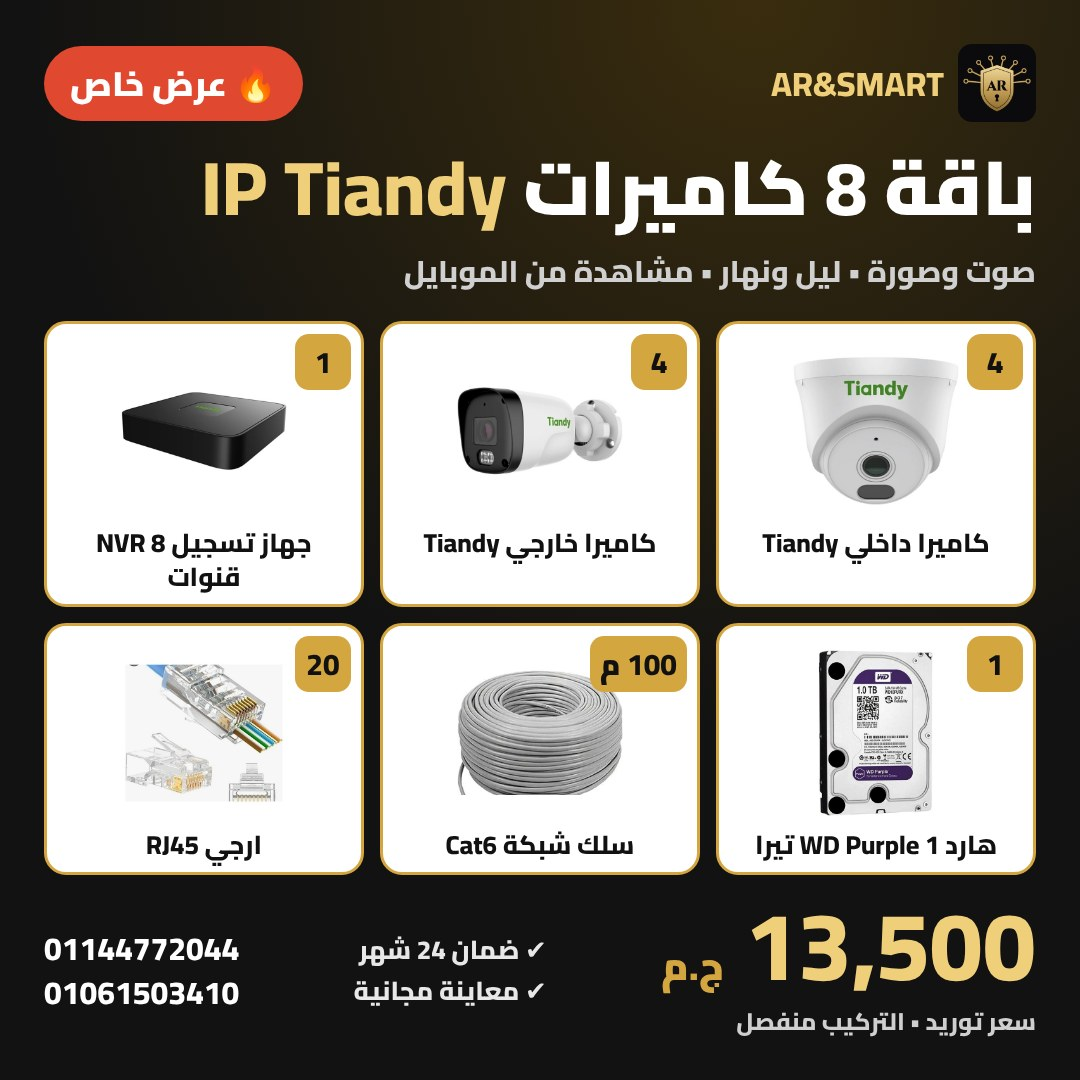
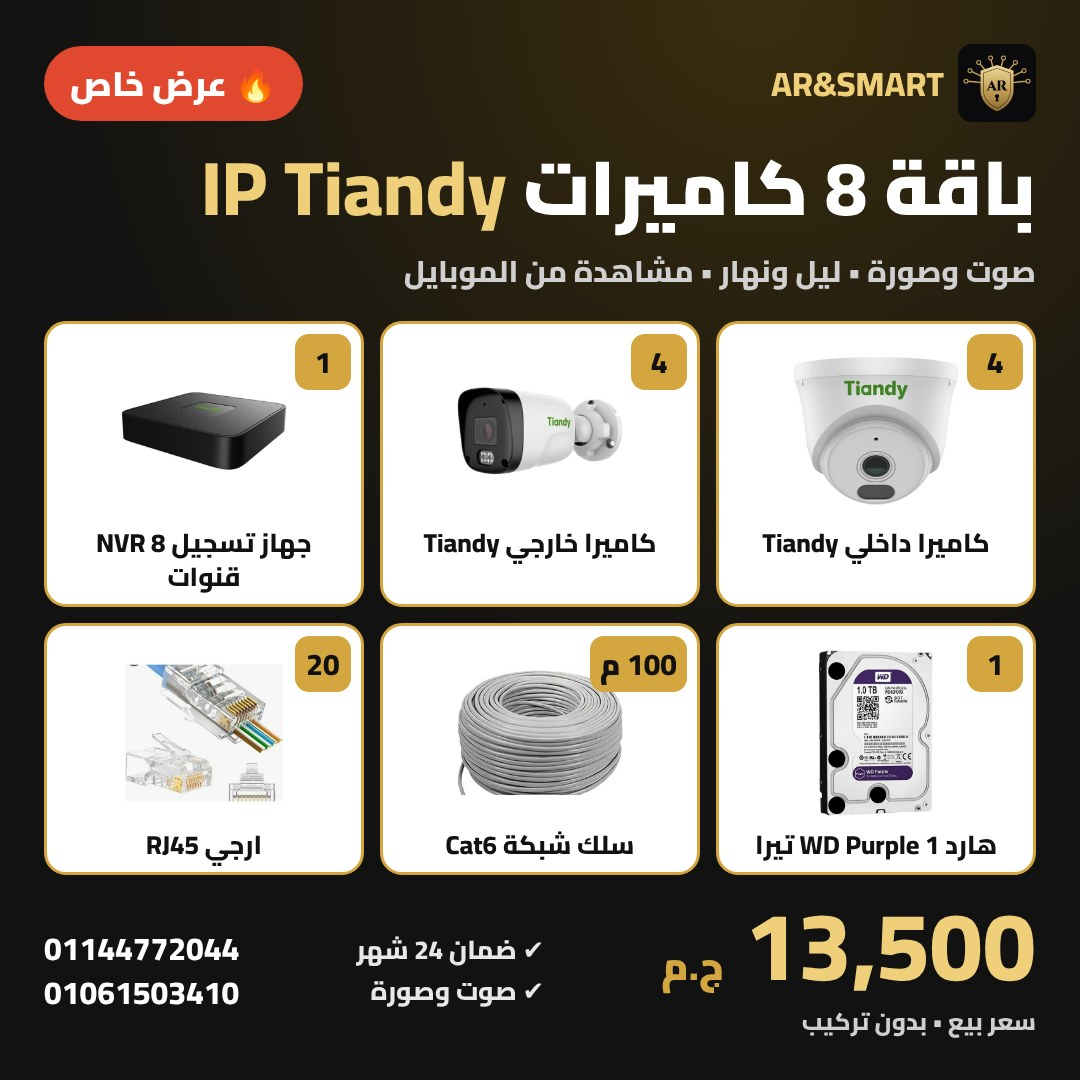
Offers: sale price without installation, no inspection mention
Claude-Session: https://claude.ai/code/session_01BF18cvKDawFTu2vPtybSxZ

Changed region(s): [[0.6722, 0.9167, 0.9167, 0.9778], [0.3361, 0.8556, 0.4889, 0.9472]]

diff --git a/index.html b/index.html
@@ -579,10 +579,10 @@ const quickForm=()=>`<form class="panel form" id="quickForm" novalidate>
 
 /* ===== العروض: لإضافة عرض جديد ضيف عنصر في OFFERS ===== */
 const OFFERS=[
- {id:"cam4",tag:"عرض كاميرات",title:"باقة 4 كاميرات IP Tiandy",sub:"2 داخلي + 2 خارجي — صوت وصورة، ليل ونهار، ومشاهدة من الموبايل.",banner:"img/off/banner-cam4.jpg?v=2",
+ {id:"cam4",tag:"عرض كاميرات",title:"باقة 4 كاميرات IP Tiandy",sub:"2 داخلي + 2 خارجي — صوت وصورة، ليل ونهار، ومشاهدة من الموبايل.",banner:"img/off/banner-cam4.jpg?v=3",
   items:[["dome","2","كاميرا داخلي Tiandy IP"],["bullet","2","كاميرا خارجي Tiandy IP"],["nvr","1","جهاز تسجيل NVR 4 قنوات"],["hdd500","1","هارد 500 جيجا"],["cable","50 م","سلك شبكة"],["rj45","20","ارجي RJ45"]],
   price:8500},
- {id:"cam8",tag:"عرض كاميرات",title:"باقة 8 كاميرات IP Tiandy",sub:"4 داخلي + 4 خارجي — صوت وصورة، ليل ونهار، ومشاهدة من الموبايل.",banner:"img/off/banner-cam8.jpg?v=2",
+ {id:"cam8",tag:"عرض كاميرات",title:"باقة 8 كاميرات IP Tiandy",sub:"4 داخلي + 4 خارجي — صوت وصورة، ليل ونهار، ومشاهدة من الموبايل.",banner:"img/off/banner-cam8.jpg?v=3",
   items:[["dome","4","كاميرا داخلي Tiandy IP"],["bullet","4","كاميرا خارجي Tiandy IP"],["nvr","1","جهاز تسجيل NVR 8 قنوات"],["hdd1t","1","هارد WD Purple 1 تيرا"],["cable","100 م","سلك شبكة Cat6"],["rj45","20","ارجي RJ45"]],
   price:13500}
 ];
@@ -591,8 +591,8 @@ const offerCard=o=>`<article class="offer" id="offer-${o.id}"><a class="off-ban"
  <div class="off-body"><span class="off-tag">🔥 ${o.tag}</span><h3>${o.title}</h3><p class="off-sub">${o.sub}</p>
  <h4>محتويات الباقة</h4><ul class="off-items">${o.items.map(([im,q,t])=>`<li><img src="img/off/${im}.jpg" alt="" loading="lazy"><b>${q}</b><span>${t}</span></li>`).join("")}</ul>
  <h4>صورة حقيقية من كاميرات ركّبناها</h4><div class="off-shots">${OFF_SHOTS.map(([l,i])=>`<a href="${i}" target="_blank" rel="noopener"><img src="${i.replace("img/w/","img/w/t/")}" alt="${l}" loading="lazy"><span>${l==="ليل"?"🌙":"☀"} ${l}</span></a>`).join("")}</div>
- <ul class="off-perks"><li>✔ ضمان 24 شهر</li><li>✔ معاينة مجانية</li><li>✔ التركيب متاح بسعر منفصل</li><li>✔ مشاهدة من الموبايل</li></ul>
- <div class="off-foot"><div><div class="off-price">${fmt(o.price)} <small>ج.م</small></div><div class="off-note">سعر توريد • التركيب حسب الموقع بعد المعاينة</div></div><a class="btn gold" target="_blank" rel="noopener" href="${wa(`السلام عليكم، عايز عرض: ${o.title}\n${o.items.map(i=>`- ${i[1]} × ${i[2]}`).join("\n")}\nالسعر: ${fmt(o.price)} ج.م (توريد)\nوعايز أعرف تكلفة التركيب`)}">احجز العرض على الواتساب</a></div></div></article>`;
+ <ul class="off-perks"><li>✔ ضمان 24 شهر</li><li>✔ مشاهدة من الموبايل</li></ul>
+ <div class="off-foot"><div><div class="off-price">${fmt(o.price)} <small>ج.م</small></div><div class="off-note">سعر بيع • بدون تركيب</div></div><a class="btn gold" target="_blank" rel="noopener" href="${wa(`السلام عليكم، عايز عرض: ${o.title}\n${o.items.map(i=>`- ${i[1]} × ${i[2]}`).join("\n")}\nالسعر: ${fmt(o.price)} ج.م`)}">احجز العرض على الواتساب</a></div></div></article>`;
 const offersSec=()=>OFFERS.length?`<section class="sec" id="offers"><div class="sec-h"><h2>🔥 العروض</h2>${OFFERS.length>1?`<a href="#offers-all">كل العروض ←</a>`:""}</div><div class="offers">${OFFERS.map(offerCard).join("")}</div></section>`:"";
 function viewHome(){
   return `<section class="hero">
